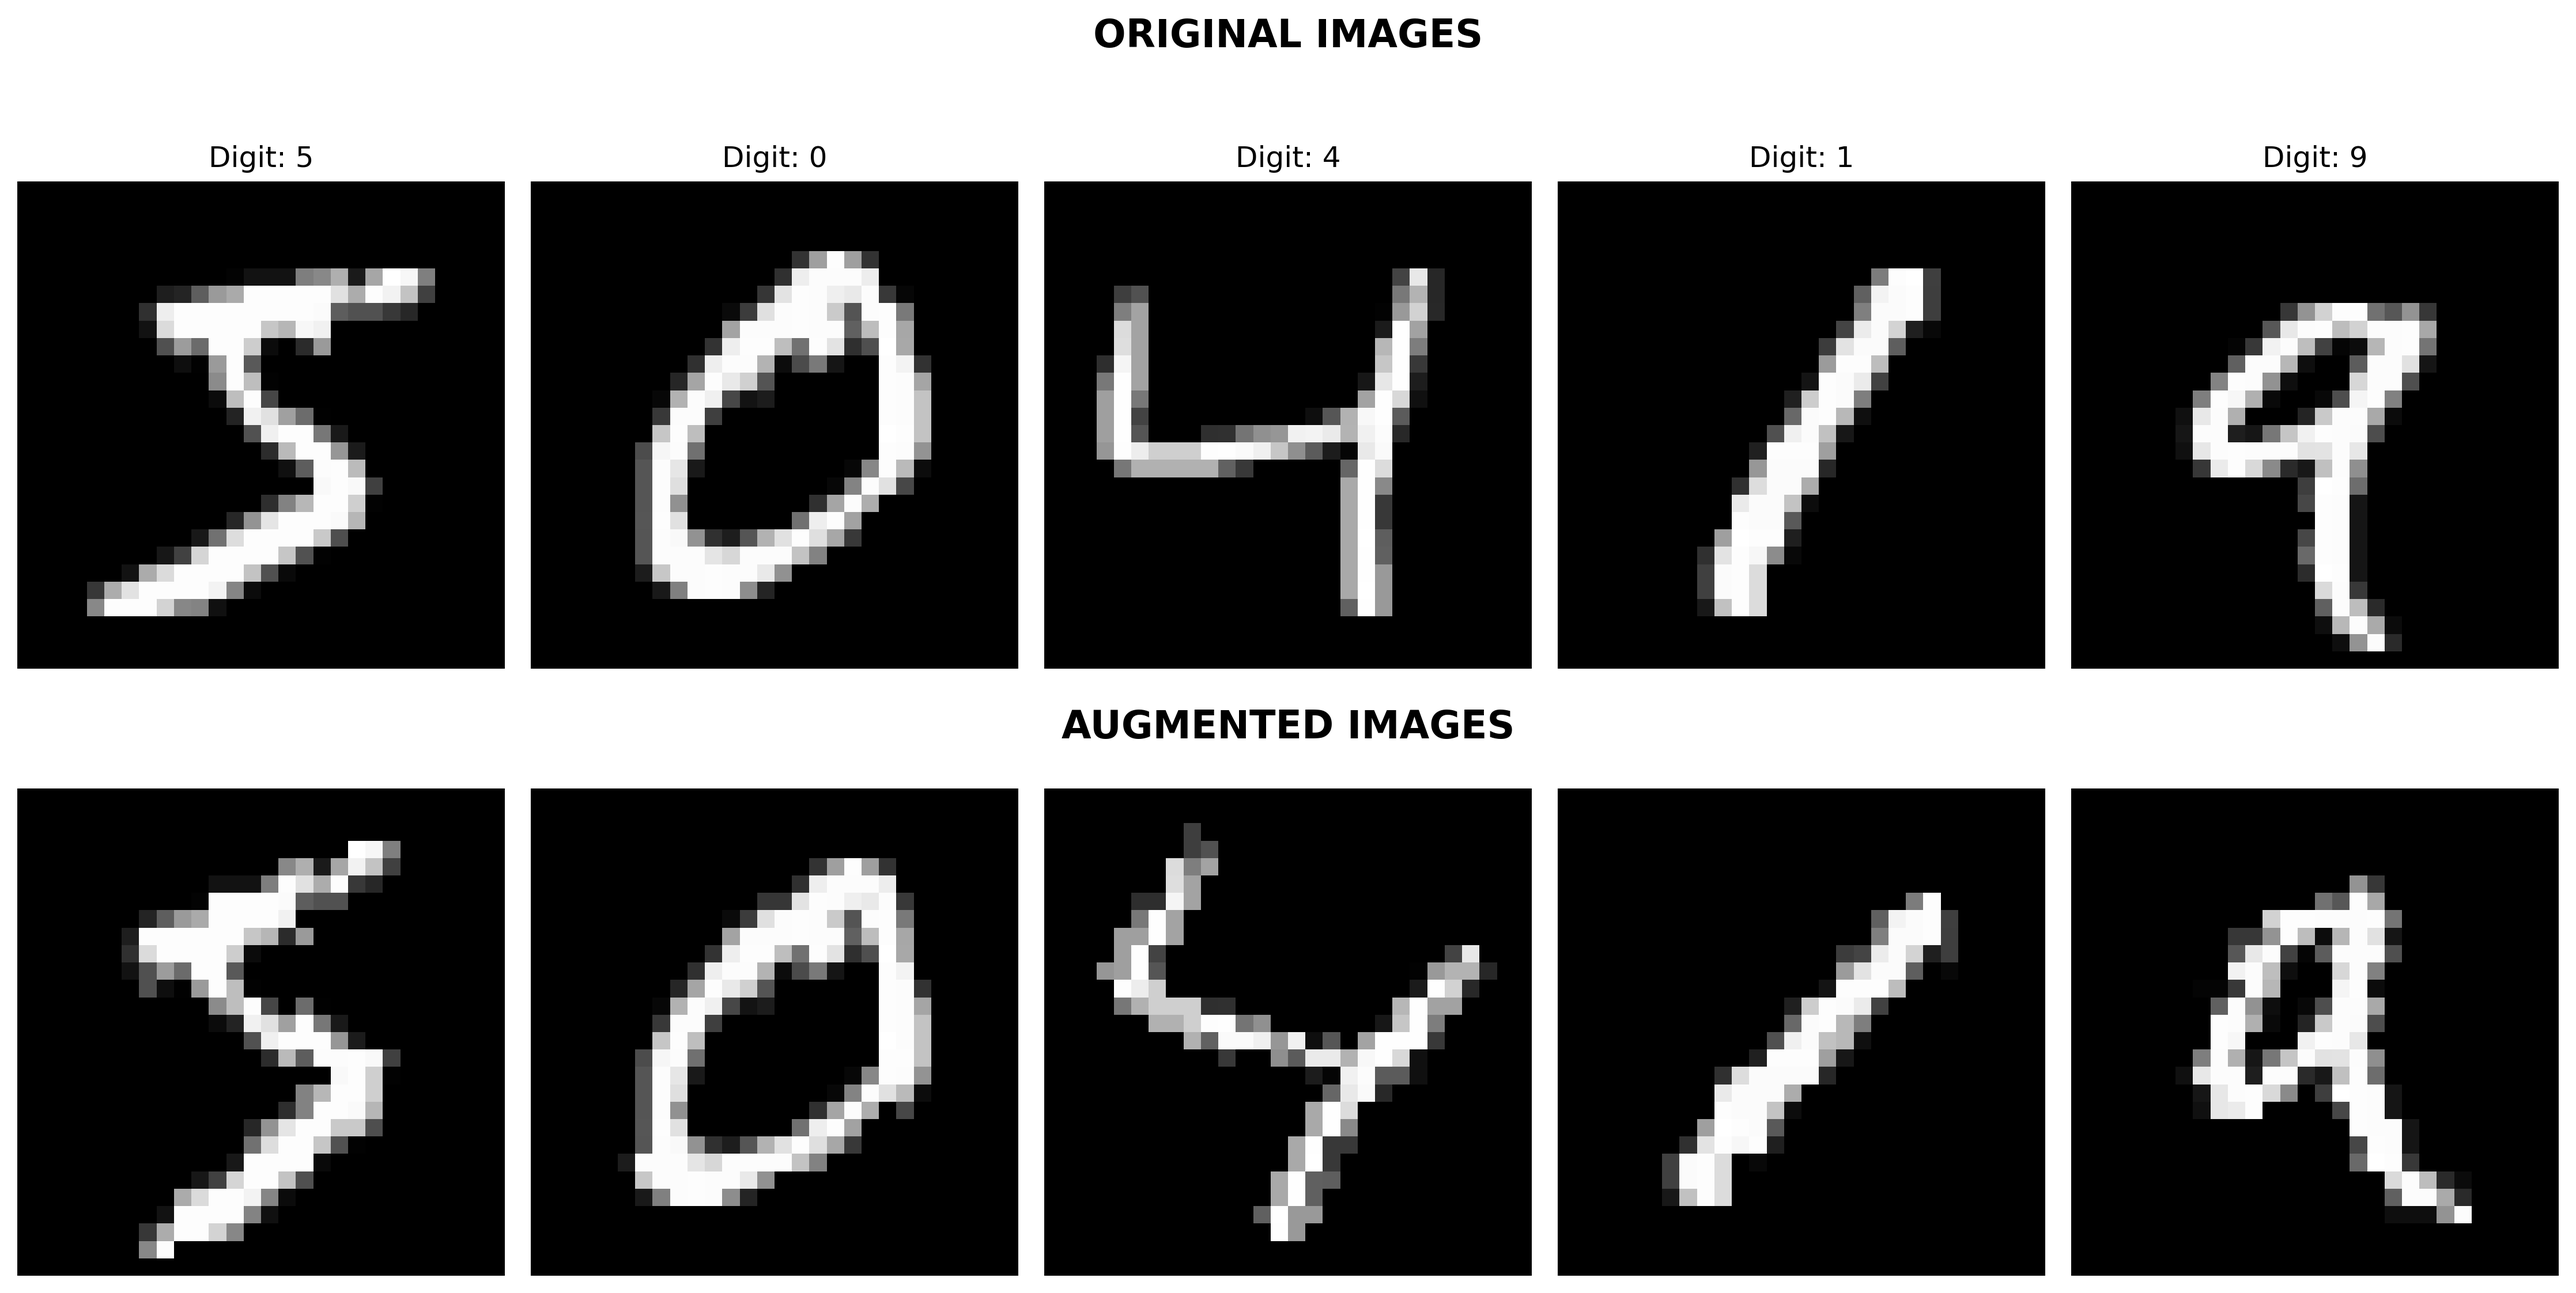
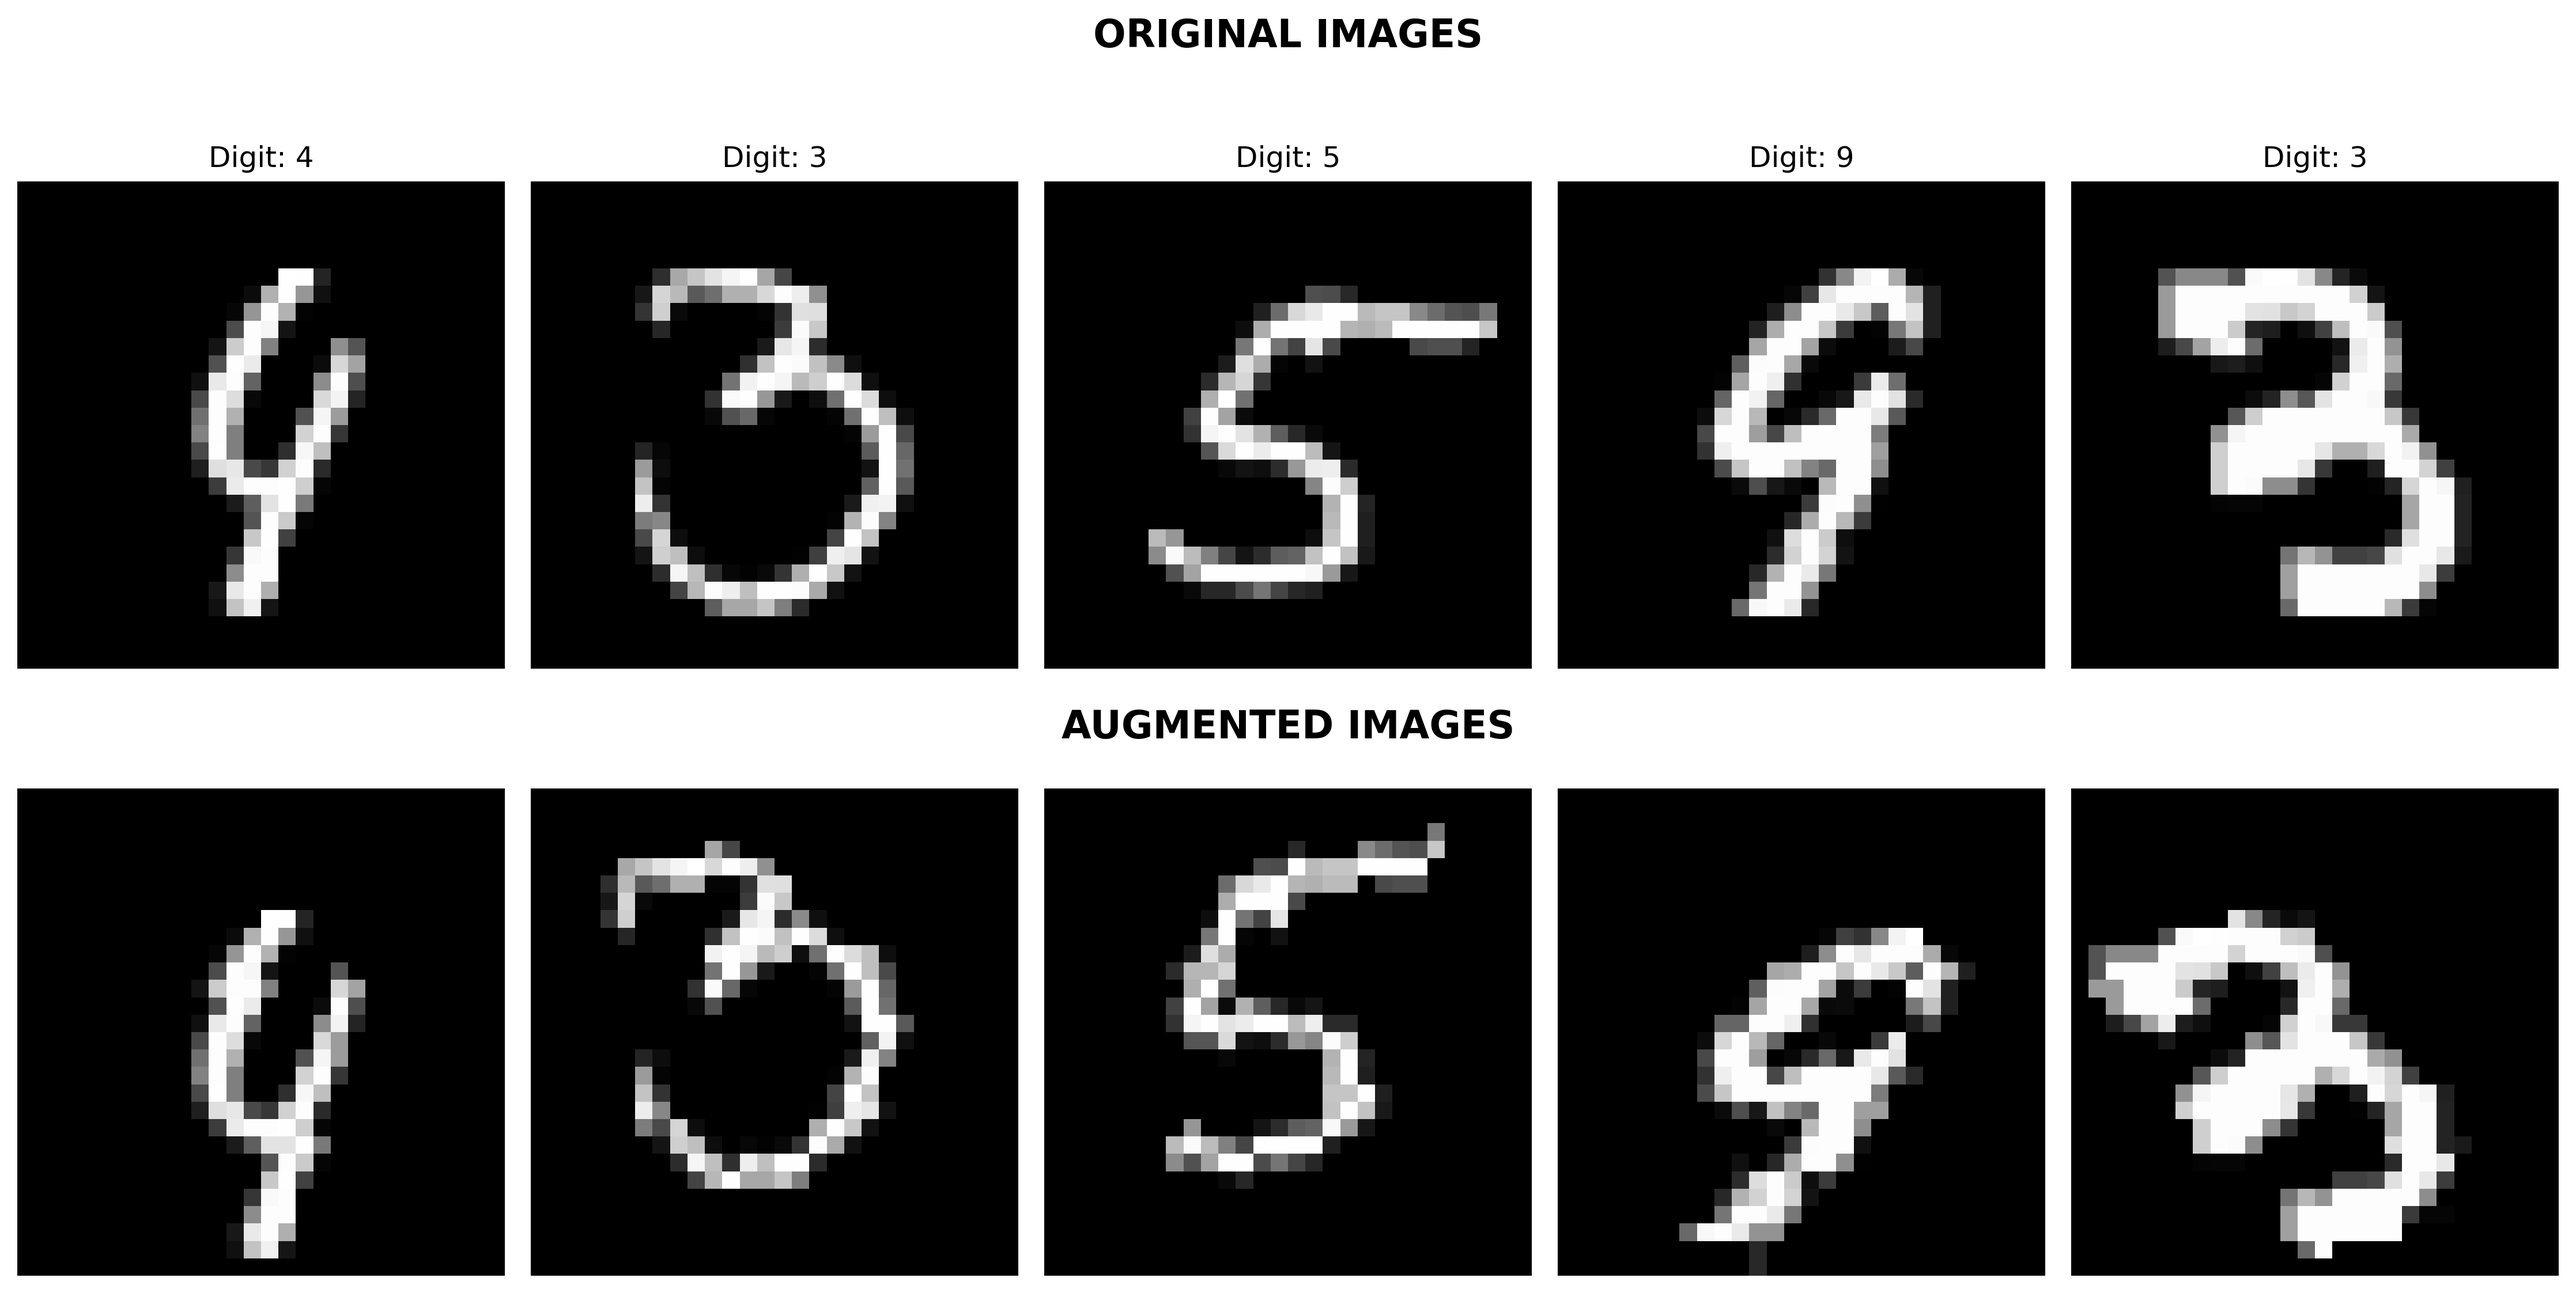
Updated workflow and added augmentation sample image

diff --git a/src/show_augmentations.py b/src/show_augmentations.py
@@ -3,60 +3,64 @@ import torchvision.transforms as transforms
 from torchvision.datasets import MNIST
 import matplotlib.pyplot as plt
 import numpy as np
+import random
+from datetime import datetime
+import os
 
 def show_augmented_samples():
-    # Create directory for sample images if it doesn't exist
-    import os
+    random.seed(datetime.now().timestamp())
+    
     if not os.path.exists('sample_images'):
         os.makedirs('sample_images')
 
     # Basic transform for original images
     basic_transform = transforms.ToTensor()
 
-    # Increased rotation angle for more visible effect
-    rotation_transform = transforms.RandomRotation(degrees=30)
+    # Three mild augmentations (without ToTensor since image is already tensor)
+    augmentation_transform = transforms.Compose([
+        transforms.RandomRotation(degrees=15),      # Mild rotation
+        transforms.RandomAffine(                    # Small shifts and scaling
+            degrees=0,
+            translate=(0.1, 0.1),                  # 10% shift
+            scale=(0.9, 1.1)                       # 10% scale change
+        )
+    ])  # Removed ToTensor() from here
 
-    # Load dataset
     dataset = MNIST(root='./data', train=True, download=True, transform=basic_transform)
 
-    # Create figure with 2×5 grid and extra vertical space
-    fig = plt.figure(figsize=(15, 8))  # Increased height
-    gs = fig.add_gridspec(3, 5, height_ratios=[0.2, 1, 1])  # 3 rows, top row for title
+    # Create figure with 2×5 grid
+    fig = plt.figure(figsize=(15, 8))
+    gs = fig.add_gridspec(3, 5, height_ratios=[0.2, 1, 1])
     
-    # Create axes for the images
     axes = []
-    for row in range(1, 3):  # Skip the first row (reserved for title)
+    for row in range(1, 3):
         row_axes = []
         for col in range(5):
             ax = fig.add_subplot(gs[row, col])
             row_axes.append(ax)
         axes.append(row_axes)
 
-    # Add row headers as subplot titles - adjusted y-coordinates
-    fig.text(0.5, 0.95, 'ORIGINAL IMAGES', ha='center', va='center', fontsize=16, fontweight='bold')  # Moved from 0.55 to 0.95
+    fig.text(0.5, 0.95, 'ORIGINAL IMAGES', ha='center', va='center', fontsize=16, fontweight='bold')
     fig.text(0.5, 0.45, 'AUGMENTED IMAGES', ha='center', va='center', fontsize=16, fontweight='bold')
 
-    # Explicitly choosing one of each digit for better visualization
-    selected_indices = []
-    digits_seen = set()
-    
-    # Find one example of each digit (0-9)
-    for idx, (_, label) in enumerate(dataset):
-        if label not in digits_seen and len(selected_indices) < 5:
-            selected_indices.append(idx)
-            digits_seen.add(label)
+    selected_indices = random.sample(range(len(dataset)), 5)
     
     for idx, sample_idx in enumerate(selected_indices):
         image, label = dataset[sample_idx]
+        
+        # Convert tensor to PIL Image for augmentation
+        to_pil = transforms.ToPILImage()
+        pil_image = to_pil(image)
         
         # Original image
         axes[0][idx].imshow(image.squeeze(), cmap='gray')
         axes[0][idx].set_title(f'Digit: {label}')
         axes[0][idx].axis('off')
         
-        # Rotated image
-        rotated_image = rotation_transform(image)
-        axes[1][idx].imshow(rotated_image.squeeze(), cmap='gray')
+        # Augmented image - apply transforms to PIL Image then convert back to tensor
+        aug_image = augmentation_transform(pil_image)
+        aug_tensor = transforms.ToTensor()(aug_image)
+        axes[1][idx].imshow(aug_tensor.squeeze(), cmap='gray')
         axes[1][idx].axis('off')
 
     plt.tight_layout()

diff --git a/src/train.py b/src/train.py
@@ -14,9 +14,14 @@ def train():
     # Device configuration
     device = torch.device('cpu')
 
-    # MNIST dataset with augmentation for training
+    # MNIST dataset with same augmentations as visualization
     train_transform = transforms.Compose([
-        transforms.RandomRotation(degrees=30),  # Added rotation augmentation
+        transforms.RandomRotation(degrees=15),      # Mild rotation
+        transforms.RandomAffine(                    # Small shifts and scaling
+            degrees=0,
+            translate=(0.1, 0.1),                  # 10% shift
+            scale=(0.9, 1.1)                       # 10% scale change
+        ),
         transforms.ToTensor(),
         transforms.Normalize((0.1307,), (0.3081,))
     ])

diff --git a/README.md b/README.md
@@ -31,9 +31,14 @@ This project implements a simple Convolutional Neural Network (CNN) for MNIST di
 ## Features
 
 ### Data Augmentation
-- Random rotation (±30 degrees)
-- Visualization of original vs augmented images
-- Augmentation samples saved during training
+We apply three light augmentations during training:
+- Random rotation (±15 degrees)
+- Random shift (±10%)
+- Random scale (±10%)
+
+Sample augmentations showing original vs augmented digits:
+
+<img src="sample_images/augmentation_samples.png" alt="Augmentation Samples" width="800"/>
 
 ### Model Validation
 Basic Tests:
